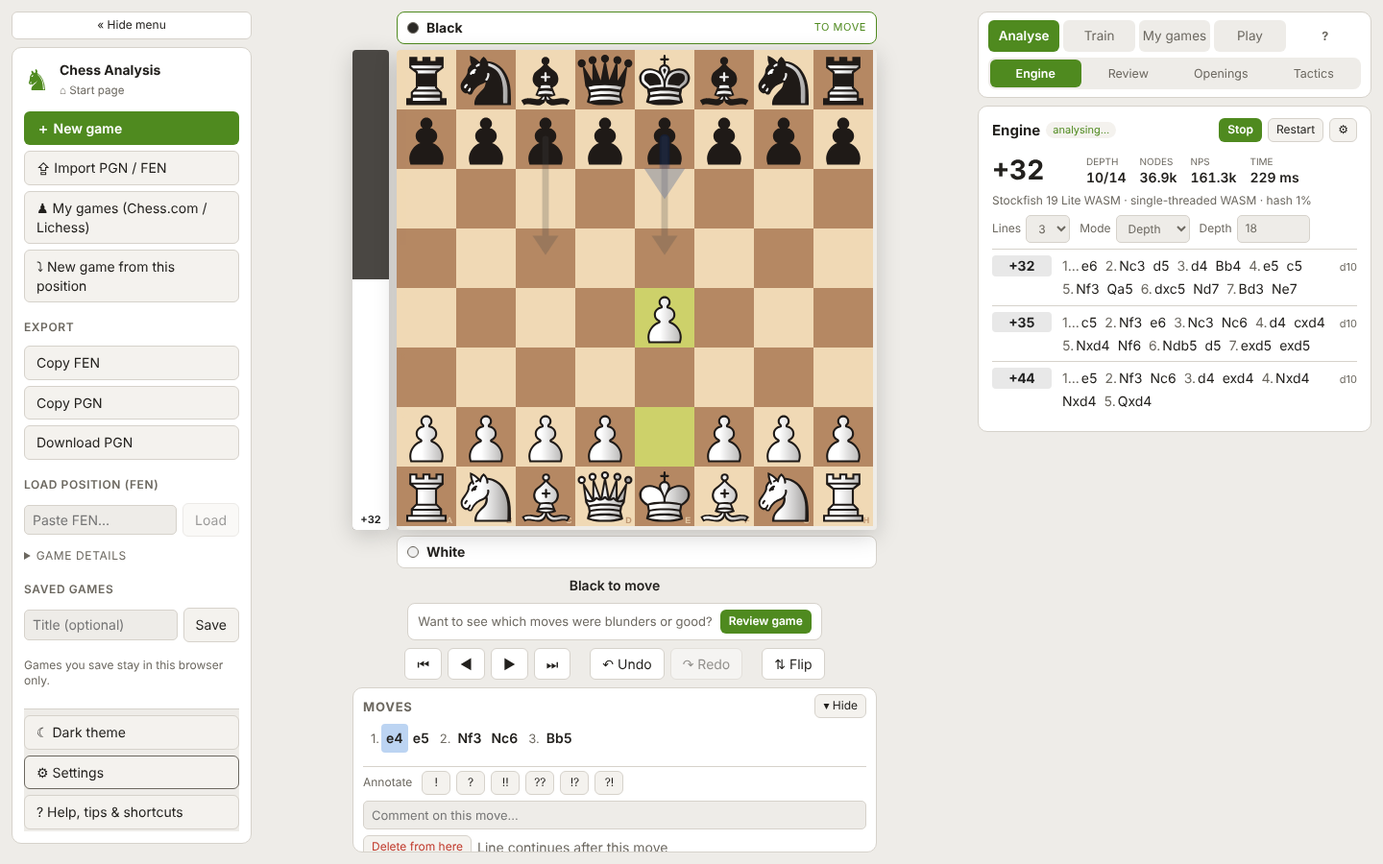
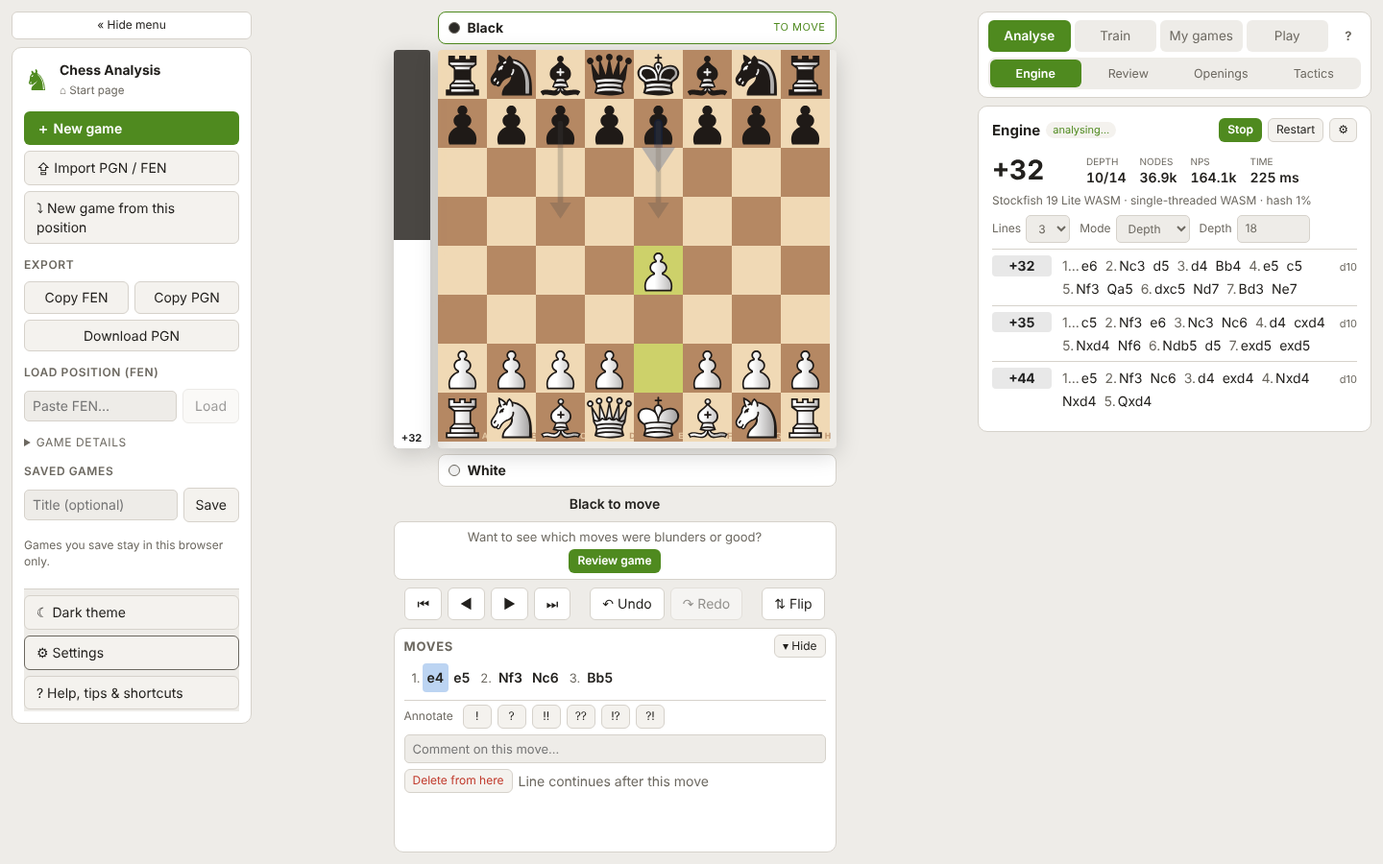
Layout round: centre column fits the window, verdict only on Analyse, compact Play setup, tidier sidebar and review
Claude-Session: https://claude.ai/code/session_01Hgj6vNLbXkGtnkUjtVvSMf

diff --git a/src/styles/app.css b/src/styles/app.css
@@ -90,9 +90,10 @@ textarea { width: 100%; resize: vertical; }
   gap: 14px;
   height: 100%;
   padding: 12px;
-  --board: min(calc(100vh - 400px), 640px, calc(100vw - 250px - 410px - 3 * 14px - 24px - 56px));
+  --board: min(calc(100vh - var(--below)), 640px, calc(100vw - 250px - 410px - 3 * 14px - 24px - 56px));
 }
 .col-left, .col-right { min-height: 0; min-width: 0; }
+.app { --verdict-h: clamp(120px, 21vh, 190px); --below: calc(296px + var(--verdict-h)); }
 .col-left { overflow-y: auto; }
 .col-center { display: flex; flex-direction: column; align-items: center; gap: 8px; min-width: 0; overflow: auto; }
 .col-right {
@@ -322,7 +323,7 @@ kbd { background: var(--bg-3); border: 1px solid var(--line); border-radius: 4px
 
 /* ---------- responsive ---------- */
 @media (max-width: 1180px) {
-  .app { grid-template-columns: 190px minmax(0, 1fr) 340px; --board: min(calc(100vh - 250px), 600px, calc(100vw - 190px - 340px - 3 * 14px - 24px - 56px)); }
+  .app { grid-template-columns: 190px minmax(0, 1fr) 340px; --board: min(calc(100vh - var(--below) + 60px), 600px, calc(100vw - 190px - 340px - 3 * 14px - 24px - 56px)); }
 }
 @media (max-width: 900px) {
   html, body, #root { height: auto; }
@@ -422,12 +423,12 @@ fieldset.plain:disabled { opacity: 0.5; }
 /* ---------- collapsible left column (desktop / tablet) ---------- */
 .side-toggle { width: 100%; background: var(--bg-2); border: 1px solid var(--line); border-radius: 6px; padding: 5px; font-size: 12px; margin-bottom: 8px; }
 @media (min-width: 901px) {
-  .app.side-collapsed { grid-template-columns: 40px minmax(0, 1fr) 410px; --board: min(calc(100vh - 250px), 760px, calc(100vw - 40px - 410px - 3 * 14px - 24px - 56px)); }
+  .app.side-collapsed { grid-template-columns: 40px minmax(0, 1fr) 410px; --board: min(calc(100vh - var(--below) + 60px), 760px, calc(100vw - 40px - 410px - 3 * 14px - 24px - 56px)); }
   .app.side-collapsed .side-body { display: none; }
   .app.side-collapsed .side-toggle { padding: 8px 0; }
 }
 @media (min-width: 901px) and (max-width: 1180px) {
-  .app.side-collapsed { grid-template-columns: 40px minmax(0, 1fr) 340px; --board: min(calc(100vh - 250px), 700px, calc(100vw - 40px - 340px - 3 * 14px - 24px - 56px)); }
+  .app.side-collapsed { grid-template-columns: 40px minmax(0, 1fr) 340px; --board: min(calc(100vh - var(--below) + 60px), 700px, calc(100vw - 40px - 340px - 3 * 14px - 24px - 56px)); }
 }
 @media (max-width: 900px) { .side-toggle { display: none; } }
 
@@ -482,14 +483,14 @@ fieldset.plain:disabled { opacity: 0.5; }
 /* ---------- round 4: moves under the board, sections, welcome, help ---------- */
 .sr-only { position: absolute; width: 1px; height: 1px; overflow: hidden; clip: rect(0 0 0 0); white-space: nowrap; margin: -1px; padding: 0; border: 0; }
 @media (min-width: 901px) {
-  .app { --board: min(calc(100vh - 400px), 640px, calc(100vw - 250px - 410px - 3 * 14px - 24px - 56px)); }
+  .app { --board: min(calc(100vh - var(--below)), 640px, calc(100vw - 250px - 410px - 3 * 14px - 24px - 56px)); }
   .col-center { justify-content: flex-start; }
-  .col-center .moves-panel { width: calc(var(--board) + 46px); flex: 1 1 auto; min-height: 120px; max-height: 260px; margin-left: 0; align-self: center; padding: 6px 10px 8px; }
-  .app.side-collapsed { --board: min(calc(100vh - 400px), 760px, calc(100vw - 40px - 410px - 3 * 14px - 24px - 56px)); }
+  .col-center .moves-panel { width: calc(var(--board) + 46px); flex: 1 1 0; min-height: 96px; max-height: 320px; margin-left: 0; align-self: center; padding: 6px 10px 8px; }
+  .app.side-collapsed { --board: min(calc(100vh - var(--below)), 760px, calc(100vw - 40px - 410px - 3 * 14px - 24px - 56px)); }
 }
 @media (min-width: 901px) and (max-width: 1180px) {
-  .app { --board: min(calc(100vh - 400px), 600px, calc(100vw - 190px - 340px - 3 * 14px - 24px - 56px)); }
-  .app.side-collapsed { --board: min(calc(100vh - 400px), 700px, calc(100vw - 40px - 340px - 3 * 14px - 24px - 56px)); }
+  .app { --board: min(calc(100vh - var(--below)), 600px, calc(100vw - 190px - 340px - 3 * 14px - 24px - 56px)); }
+  .app.side-collapsed { --board: min(calc(100vh - var(--below)), 700px, calc(100vw - 40px - 340px - 3 * 14px - 24px - 56px)); }
 }
 .col-center .moves-panel .move-list { flex: 1 1 auto; min-height: 44px; overflow-y: auto; }
 .col-center .moves-panel .move-tools { margin-top: 4px; }
@@ -511,7 +512,7 @@ fieldset.plain:disabled { opacity: 0.5; }
 .howto dd { margin: 2px 0 0; color: var(--muted); }
 .steps { padding-left: 18px; }
 @media (max-width: 900px) { .col-center .moves-panel { max-height: 40vh; } .help-btn { display: none; } }
-.errors-only { display: flex; gap: 6px; align-items: center; justify-content: flex-end; margin: 0 0 4px; color: var(--muted); }
+.errors-only { display: flex; gap: 6px; align-items: center; justify-content: flex-end; margin: 0 0 2px; color: var(--muted); position: sticky; top: 0; z-index: 1; background: var(--bg-2); padding: 1px 0; }
 .pill.forced { color: var(--info, #6aa7ff); border-color: currentColor; }
 .review-headline { margin: 6px 0; font-weight: 600; }
 @media (min-width: 901px) {
@@ -520,12 +521,12 @@ fieldset.plain:disabled { opacity: 0.5; }
 .moves-head { display: flex; align-items: center; justify-content: space-between; margin-bottom: 2px; }
 .moves-head h2 { margin: 0; font-size: 13px; text-transform: uppercase; letter-spacing: .06em; color: var(--muted); }
 @media (min-width: 901px) {
-  .app.moves-collapsed { --board: min(calc(100vh - 250px), 700px, calc(100vw - 250px - 410px - 3 * 14px - 24px - 56px)); }
-  .app.moves-collapsed.side-collapsed { --board: min(calc(100vh - 250px), 800px, calc(100vw - 40px - 410px - 3 * 14px - 24px - 56px)); }
+  .app.moves-collapsed { --board: min(calc(100vh - var(--below) + 60px), 700px, calc(100vw - 250px - 410px - 3 * 14px - 24px - 56px)); }
+  .app.moves-collapsed.side-collapsed { --board: min(calc(100vh - var(--below) + 60px), 800px, calc(100vw - 40px - 410px - 3 * 14px - 24px - 56px)); }
   .app.moves-collapsed .col-center .moves-panel { flex: 0 0 auto; min-height: 0; max-height: none; }
 }
 @media (min-width: 901px) and (max-width: 1180px) {
-  .app.moves-collapsed { --board: min(calc(100vh - 250px), 640px, calc(100vw - 190px - 340px - 3 * 14px - 24px - 56px)); }
+  .app.moves-collapsed { --board: min(calc(100vh - var(--below) + 60px), 640px, calc(100vw - 190px - 340px - 3 * 14px - 24px - 56px)); }
 }
 @media (max-width: 900px) {
   .col-right .tabs { display: flex; }
@@ -558,3 +559,52 @@ fieldset.plain:disabled { opacity: 0.5; }
 .brand-btn:hover strong { color: var(--accent); }
 @media (max-width: 760px) { .home-cards { grid-template-columns: 1fr; } .home-card { min-height: 0; } .home { place-items: start center; padding-top: 24px; } .home-brand h1 { font-size: 28px; } }
 @media (prefers-reduced-motion: reduce) { .home-card { transition: none; } }
+
+/* ---------- round 5: the centre column always fits the window ---------- */
+@media (min-width: 901px) {
+  .col-center { min-height: 0; overflow: hidden; }
+  .col-center > * { flex-shrink: 0; }
+  .col-center > .moves-panel { flex-shrink: 1; }
+  .col-center .verdict { width: calc(var(--board) + 46px); max-height: var(--verdict-h); display: flex; flex-direction: column; gap: 4px; overflow: hidden; }
+  .col-center .verdict .why-list { flex: 1 1 auto; min-height: 36px; overflow-y: auto; }
+  .col-center .verdict .verdict-main, .col-center .verdict .verdict-better, .col-center .verdict .verdict-nav { flex: none; }
+  /* the move verdict belongs to the analysis tabs */
+  .app:not([data-section='analyse']) .col-center .verdict { display: none; }
+  /* errors-only toggle sits in the Moves header, not on top of it */
+  .moves-head { gap: 10px; }
+}
+/* the eval bar and engine pictures only mean something while analysing */
+.app[data-section='games'] .eval-bar, .app[data-section='train'] .eval-bar { visibility: hidden; }
+@media (max-width: 900px) { .app:not([data-section='analyse']):not(.mobile-board) .verdict { display: none; } }
+
+.export-grid { display: grid; grid-template-columns: 1fr 1fr; gap: 6px; }
+.export-grid .btn { text-align: center; padding: 6px 8px; }
+.export-grid .wide { grid-column: 1 / -1; }
+.sidebar h3 { margin: 10px 0 4px; }
+
+/* play setup: compact difficulty grid + always-visible Start button */
+.level-list.compact { display: grid; grid-template-columns: 1fr 1fr; gap: 6px; }
+.level-list.compact .level { padding: 7px 10px; min-width: 0; }
+.level-list.compact .level > span { display: none; }
+.sticky-start { position: sticky; bottom: -1px; z-index: 2; background: var(--bg-2); padding: 8px 0 6px; margin-top: 8px; border-top: 1px solid var(--line); }
+.sticky-start .btn { width: 100%; text-align: center; padding: 9px 12px; }
+
+/* help button: a small round icon, clearly not a tab; short section labels when the right column is narrow */
+.help-btn { flex: 0 0 26px; width: 26px; height: 26px; margin-left: 4px; background: transparent; border: 1.5px solid var(--muted); color: var(--muted); font-size: 13px; line-height: 1; padding: 0; }
+.help-btn:hover { border-color: var(--accent); color: var(--accent); }
+.lbl-short { display: none; }
+@media (min-width: 901px) and (max-width: 1180px) { .lbl-full { display: none; } .lbl-short { display: inline; } }
+
+/* review: foldable sections */
+details.fold { margin: 10px 0 0; padding-top: 8px; border-top: 1px solid var(--line); }
+details.fold > summary { font-size: 12px; text-transform: uppercase; letter-spacing: .05em; font-weight: 600; margin-bottom: 6px; }
+details.fold:not([open]) > summary { margin-bottom: 0; }
+.review-panel .grade-legend { margin: 8px 0 0; }
+
+/* the move list and the annotation tools scroll together, so the list gets all the room */
+.moves-scroll { flex: 1 1 auto; min-height: 0; overflow-y: auto; display: flex; flex-direction: column; }
+.moves-scroll .move-list, .col-center .moves-panel .moves-scroll .move-list { flex: none; overflow: visible; min-height: 0; }
+.moves-scroll .move-tools { margin-top: 6px; }
+.col-right > .tabs .tab-row.primary button.help-btn { flex: 0 0 26px; width: 26px; padding: 0; background: transparent; color: var(--muted); font-size: 13px; }
+.col-right > .tabs .tab-row.primary button.help-btn:hover { color: var(--accent); background: transparent; }
+@media (max-width: 900px) { .moves-scroll { max-height: 40vh; } }

diff --git a/src/components/ReviewPanel.tsx b/src/components/ReviewPanel.tsx
@@ -166,16 +166,13 @@ export function ReviewPanel() {
           <div className="accuracy-row">
             {(['w', 'b'] as const).map((c) => (
               <div key={c} className="accuracy">
-                <span className="label">{c === 'w' ? tree.headers['White'] ?? 'White' : tree.headers['Black'] ?? 'Black'}</span>
+                <span className="label">{c === 'w' ? tree.headers['White'] ?? 'White' : tree.headers['Black'] ?? 'Black'} · accuracy (estimate)</span>
                 <strong data-testid={`accuracy-${c}`}>{formatPercent(summary.accuracy[c])}</strong>
               </div>
             ))}
           </div>
           <p className="review-headline" data-testid="review-headline">{headline(summary, tree.headers['White'] ?? 'White', tree.headers['Black'] ?? 'Black')}</p>
           <CountForStrength result={result} stale={stale} />
-          <p className="muted small-print">
-            Accuracy is an estimate: the mean per-move score from the loss of winning chances (model adapted from Lichess's published formula). It is not Chess.com's or Lichess's number. Depth {result.depth}; moves classified from winning-chance loss, thresholds in settings.
-          </p>
           <EvalGraph values={result.whiteWinGraph} ids={line} currentPly={currentPly} />
           <table className="counts">
             <thead><tr><th></th><th>White</th><th>Black</th></tr></thead>
@@ -194,21 +191,29 @@ export function ReviewPanel() {
           </table>
 
           <details className="grade-legend">
-            <summary>How the grades are decided</summary>
+            <summary>How accuracy and the grades are decided</summary>
+            <p className="muted small-print">
+              Accuracy is an estimate: the mean per-move score from the loss of winning chances (model adapted from Lichess's published formula). It is not Chess.com's or Lichess's number. Depth {result.depth}; moves classified from winning-chance loss, thresholds in settings.
+            </p>
             <p className="muted small-print">These labels follow the familiar Chess.com scheme, but the rules are our own approximation: Chess.com's exact algorithm is not public. Everything comes from Stockfish's evaluations at the review depth.</p>
             <ul className="learn-ideas">
               {GRADE_ORDER.map((g) => <li key={g}><span className={`pill cls-${g}`}>{GRADE_LABEL[g]}</span> {GRADE_HELP[g]}</li>)}
             </ul>
           </details>
-          <h3>Critical moments</h3>
+          <details className="fold" open>
+          <summary>Critical moments</summary>
           {summary.criticalMoments.length === 0 ? <p className="muted pad">None found – a clean game.</p> : (
             <ul className="moments">{summary.criticalMoments.map((m) => <MomentRow key={m.nodeId} m={m} />)}</ul>
           )}
-          <h3>Biggest swings</h3>
+          </details>
+          <details className="fold">
+          <summary>Biggest swings</summary>
           <ul className="moments">
             {summary.biggestSwings.filter((m) => Math.abs(m.swing) >= 1).map((m) => <MomentRow key={m.nodeId} m={m} label={`White's win chance ${m.swing > 0 ? '+' : ''}${m.swing.toFixed(0)}%`} />)}
           </ul>
-          <h3>Study positions</h3>
+          </details>
+          <details className="fold">
+          <summary>Study positions</summary>
           <p className="muted small-print">Positions from your own mistakes: the position <em>before</em> the move, where the engine knows a better one.</p>
           {summary.studyPositions.length === 0 ? <p className="muted pad">No mistakes to study.</p> : (
             <ul className="moments">
@@ -225,6 +230,7 @@ export function ReviewPanel() {
               })}
             </ul>
           )}
+          </details>
           <button className="btn small" disabled={puzzleOpen || playOpen} onClick={continueFromHere} title="Start a new analysis game from the selected position">
             Start new game from selected position
           </button>

diff --git a/src/App.tsx b/src/App.tsx
@@ -33,7 +33,7 @@ import { useView } from '@/stores/viewStore';
  * The right-hand side has four sections; sections with more than one panel show a second row of sub-tabs.
  * (Fewer tabs at once: what you want to do first, then which tool.)
  */
-const SECTIONS: { id: string; label: string; hint: string; tabs: { id: RightTab; label: string }[] }[] = [
+const SECTIONS: { id: string; label: string; short?: string; hint: string; tabs: { id: RightTab; label: string }[] }[] = [
   {
     id: 'analyse', label: 'Analyse', hint: 'Look at a game or position',
     tabs: [
@@ -51,7 +51,7 @@ const SECTIONS: { id: string; label: string; hint: string; tabs: { id: RightTab;
     ],
   },
   {
-    id: 'games', label: 'My games', hint: 'Your Chess.com / Lichess games and strength',
+    id: 'games', label: 'My games', short: 'Games', hint: 'Your Chess.com / Lichess games and strength',
     tabs: [
       { id: 'player', label: 'Player' },
       { id: 'strength', label: 'Strength' },
@@ -107,7 +107,7 @@ export default function App() {
   }
 
   return (
-    <div className={`app mobile-${mobileTab} ${puzzleActive ? 'has-puzzle' : ''} ${collapsed ? 'side-collapsed' : ''} ${movesCollapsed ? 'moves-collapsed' : ''}`}>
+    <div data-section={section?.id ?? ''} className={`app mobile-${mobileTab} ${puzzleActive ? 'has-puzzle' : ''} ${collapsed ? 'side-collapsed' : ''} ${movesCollapsed ? 'moves-collapsed' : ''}`}>
       <div className="col-left">
         <button className="side-toggle" data-testid="side-toggle" aria-expanded={!collapsed} aria-label={collapsed ? 'Show side menu' : 'Hide side menu'} title={collapsed ? 'Show side menu' : 'Hide side menu'} onClick={toggleSidebar}>
           {collapsed ? '»' : '« Hide menu'}
@@ -132,7 +132,7 @@ export default function App() {
             <h2>Moves</h2>
             <button className="btn small" onClick={toggleMoves} aria-expanded={!movesCollapsed} aria-label={movesCollapsed ? 'Show moves' : 'Hide moves'} title={movesCollapsed ? 'Show moves' : 'Hide moves to get a bigger board'} data-testid="moves-toggle">{movesCollapsed ? '▴ Show' : '▾ Hide'}</button>
           </div>
-          {!movesCollapsed && <><MoveList /><MoveTools /></>}
+          {!movesCollapsed && <div className="moves-scroll"><MoveList /><MoveTools /></div>}
         </section>
       </main>
 
@@ -142,9 +142,10 @@ export default function App() {
             {SECTIONS.map((sec) => {
               const active = sec.tabs.some((t) => t.id === rightTab);
               return (
-                <button key={sec.id} role="tab" aria-selected={active} className={active ? 'active' : ''} title={sec.hint}
+                <button key={sec.id} role="tab" aria-selected={active} aria-label={sec.label} className={active ? 'active' : ''} title={sec.hint}
                   onClick={() => { const t = sec.tabs.some((x) => x.id === lastInSection.get(sec.id)) ? lastInSection.get(sec.id)! : sec.tabs[0]!.id; setRightTab(t); setMobileTab(t); }}>
-                  {sec.label}
+                  <span className="lbl-full" aria-hidden="true">{sec.label}</span>
+                  {sec.short !== undefined && <span className="lbl-short" aria-hidden="true">{sec.short}</span>}
                 </button>
               );
             })}

diff --git a/src/components/PlayPanel.tsx b/src/components/PlayPanel.tsx
@@ -165,9 +165,9 @@ function Setup() {
       </label>
       {s.timeControl !== 'none' && <p className="muted small-print">Clocks start after both sides have moved once. If your time runs out you lose; if Stockfish's does, you win (a draw if the other side could not mate anyway). Stockfish also shortens its thinking when it is low on time.</p>}
       <h3>Difficulty (approximate)</h3>
-      <div className="level-list" role="radiogroup" aria-label="Difficulty">
+      <div className="level-list compact" role="radiogroup" aria-label="Difficulty">
         {[...LEVELS, { id: 'custom' as LevelId, label: 'Custom', blurb: 'Choose Skill Level or Elo and thinking time.' }].map((l) => (
-          <button key={l.id} role="radio" aria-checked={s.level === l.id} className={`level ${s.level === l.id ? 'active' : ''}`} onClick={() => updatePlaySettings({ level: l.id })} data-testid={`level-${l.id}`}>
+          <button key={l.id} role="radio" aria-checked={s.level === l.id} className={`level ${s.level === l.id ? 'active' : ''}`} onClick={() => updatePlaySettings({ level: l.id })} data-testid={`level-${l.id}`} title={l.blurb}>
             <strong>{l.label}</strong><span className="muted small-print">{l.blurb}</span>
           </button>
         ))}
@@ -190,7 +190,7 @@ function Setup() {
       <label className="field check"><input type="checkbox" checked={s.practice} onChange={(e) => updatePlaySettings({ practice: e.target.checked })} data-testid="opt-practice" /><span>Practice mode (allow taking moves back)</span></label>
       <CoachingSettings />
       <ResumeBanner />
-      <div className="row"><button className="btn primary" onClick={begin} data-testid="play-start">Start game</button></div>
+      <div className="sticky-start"><button className="btn primary" onClick={begin} data-testid="play-start">Start game</button></div>
       <Dashboard />
     </>
   );

diff --git a/src/components/Sidebar.tsx b/src/components/Sidebar.tsx
@@ -16,7 +16,7 @@ import {
 import { deleteSavedGame, saveGameToLibrary, useLibrary } from '@/stores/libraryStore';
 import { updateSettings, useSetting } from '@/stores/settingsStore';
 import { goHome } from '@/stores/viewStore';
-import { confirmThen, openDialog, setMobileTab, setRightTab } from '@/stores/uiStore';
+import { confirmThen, openDialog } from '@/stores/uiStore';
 import { usePuzzle } from '@/stores/puzzleStore';
 import { usePlay } from '@/stores/playStore';
 import { parsePgn } from '@/pgn/pgn';
@@ -80,7 +80,6 @@ export function Sidebar() {
           ＋ New game
         </button>
         <button className="btn" onClick={() => openDialog('import')} data-testid="open-import">⇪ Import PGN / FEN</button>
-        <button className="btn" onClick={() => { setRightTab('player'); setMobileTab('player'); }} data-testid="open-my-games">♟ My games (Chess.com / Lichess)</button>
         {changed && (
           <button className="btn" onClick={() => { restoreOriginal(); notify('info', 'Original game restored.'); }} title="Discard all your variations and edits">
             ↺ Restore imported game
@@ -92,10 +91,10 @@ export function Sidebar() {
       </div>
 
       <h3>Export</h3>
-      <div className="stack">
+      <div className="export-grid">
         <button className="btn" onClick={() => void copy('FEN', currentFen())}>Copy FEN</button>
         <button className="btn" onClick={() => void copy('PGN', currentPgn())}>Copy PGN</button>
-        <button className="btn" onClick={() => downloadText('game.pgn', currentPgn(), 'application/x-chess-pgn')}>Download PGN</button>
+        <button className="btn wide" onClick={() => downloadText('game.pgn', currentPgn(), 'application/x-chess-pgn')}>Download PGN</button>
       </div>
 
       <h3>Load position (FEN)</h3>

diff --git a/src/components/ChessBoard.tsx b/src/components/ChessBoard.tsx
@@ -65,6 +65,8 @@ export function ChessBoard() {
   const requestedFen = useEngine((s) => s.requestedFen);
 
   const tacticSquares = useUi((s) => s.tacticSquares);
+  // Engine arrows belong to the analysis tabs; on Strength / My games / Learn they would only be noise.
+  const analyseTab = useUi((s) => ['engine', 'review', 'openings', 'tactics'].includes(s.rightTab));
   const idRef = useRef(currentId);
   idRef.current = currentId;
   const host = useRef<HTMLDivElement>(null);
@@ -149,7 +151,7 @@ export function ChessBoard() {
 
   // Engine arrows (never drawn for another position than the one displayed).
   const engineArrows = useMemo<DrawShape[]>(() => {
-    if (!settings.showEngineArrows || snapshot === null || requestedFen !== fen || snapshot.fen !== fen || gameOver) return [];
+    if (!analyseTab || !settings.showEngineArrows || snapshot === null || requestedFen !== fen || snapshot.fen !== fen || gameOver) return [];
     const arrows: DrawShape[] = [];
     snapshot.lines.slice(0, 3).forEach((line, i) => {
       const first = line.pv[0] !== undefined ? splitUci(line.pv[0]) : null;
@@ -162,7 +164,7 @@ export function ChessBoard() {
       });
     });
     return arrows;
-  }, [snapshot, requestedFen, fen, settings.showEngineArrows, gameOver]);
+  }, [analyseTab, snapshot, requestedFen, fen, settings.showEngineArrows, gameOver]);
 
   const autoShapes = useMemo<DrawShape[]>(
     () => [...engineArrows, ...tacticSquares.map((sq): DrawShape => ({ orig: sq as Key, brush: 'yellow' }))],

diff --git a/e2e/layout_round5.py b/e2e/layout_round5.py
@@ -1,0 +1,40 @@
+import asyncio, os
+from playwright.async_api import async_playwright
+exec(open(os.path.join(os.path.dirname(__file__),'common.py')).read())
+OPERA='[Event "Opera"]\n[White "Fabian"]\n[Black "Opp"]\n[Result "1-0"]\n\n1. e4 e5 2. Nf3 d6 3. d4 Bg4 4. dxe5 Bxf3 5. Qxf3 dxe5 6. Bc4 Nf6 7. Qb3 Qe7 8. Nc3 c6 9. Bg5 b5 10. Nxb5 cxb5 11. Bxb5+ Nbd7 12. O-O-O Rd8 13. Rxd7 Rxd7 14. Rd1 Qe6 15. Bxd7+ Nxd7 16. Qb8+ Nxb8 17. Rd8# 1-0'
+async def main():
+    ok=True
+    def check(n,c):
+        nonlocal ok; print(('PASS ' if c else 'FAIL ')+n); ok = ok and bool(c)
+    async with async_playwright() as p:
+        b=await p.chromium.launch(**LAUNCH,args=['--no-sandbox'])
+        for w,h in [(1440,900),(1280,720)]:
+            pg=await (await b.new_context(viewport={'width':w,'height':h})).new_page(); errs=[]
+            pg.on('pageerror',lambda e: errs.append(str(e)))
+            await pg.goto(URL); await pg.evaluate("localStorage.clear(); localStorage.setItem('chess-analysis:settings:v1', JSON.stringify({reviewDepth:8}))"); await pg.reload(); await pg.wait_for_selector('cg-board')
+            await pg.click('[data-testid=open-import]'); await pg.fill('textarea.import-text',OPERA); await pg.click('[data-testid=import-submit]')
+            await goto_tab(pg,'Review'); await pg.wait_for_selector('[data-testid=count-white]:not([disabled])',timeout=120000); await pg.wait_for_timeout(600)
+            m=await pg.evaluate("""()=>{const c=document.querySelector('.col-center'); const bd=document.querySelector('.board-wrap').getBoundingClientRect(); const mv=document.querySelector('.moves-panel').getBoundingClientRect(); return {over:c.scrollHeight-c.clientHeight, top:bd.top, bottom:mv.bottom, vh:innerHeight}}""")
+            print(w,h,m)
+            check(f'{w}x{h}: centre column does not overflow (board top and moves panel fully visible)', m['over']<=0 and m['top']>=0 and m['bottom']<=m['vh'])
+            check(f'{w}x{h}: move verdict shown in Analyse', await pg.locator('[data-testid=move-verdict]').is_visible())
+            hw=await pg.evaluate("document.querySelector('[data-testid=open-help]').getBoundingClientRect().width")
+            check(f'{w}x{h}: help button is a small round icon, not a tab', hw<=32)
+            lab=await pg.evaluate("[...document.querySelectorAll('.tab-row.primary button[role=tab]')].map(b=>b.scrollWidth<=b.clientWidth+1)")
+            check(f'{w}x{h}: section tab labels are not truncated', all(lab))
+            # foldable review sections
+            opened=await pg.evaluate("[...document.querySelectorAll('.review-panel details.fold')].map(d=>d.open)")
+            check(f'{w}x{h}: critical moments open, swings/study closed', opened==[True,False,False])
+            await goto_tab(pg,'Play')
+            check(f'{w}x{h}: stale verdict is hidden on the Play tab', not await pg.locator('[data-testid=move-verdict]').is_visible())
+            box=await pg.locator('[data-testid=play-start]').bounding_box()
+            check(f'{w}x{h}: Start game is visible without scrolling', box is not None and box['y']+box['height']<=h)
+            await goto_tab(pg,'Strength')
+            check(f'{w}x{h}: no stale verdict on Strength either', not await pg.locator('[data-testid=move-verdict]').is_visible())
+            check(f'{w}x{h}: no page errors', not errs)
+            if w==1440:
+                n=await pg.get_by_text('My games (Chess.com').count()
+                check('sidebar no longer duplicates the My games button', n==0)
+        await b.close()
+    raise SystemExit(0 if ok else 1)
+asyncio.run(main())

diff --git a/README.md b/README.md
@@ -87,7 +87,15 @@ Opening the site with nothing to continue shows a calm start page (Analyse a gam
 - After a review the board jumps to your first error; the review starts with a one-line summary per side; best moves with big swings are marked "Forced sequence".
 - "Show errors only" in the move list; the game result is shown at the end of the game.
 - Import accepts PGN tags written on one line and refuses to "load" a game with no readable moves.
-- Sidebar: "My games" shortcut; settings buttons stay visible on short screens. Fixed SVG NaN console errors on mobile.
+- Sidebar: settings buttons stay visible on short screens. Fixed SVG NaN console errors on mobile.
+
+## Layout round (fifth)
+
+- The centre column always fits the window (checked at 1440x900 and 1280x720): the board size reserves room for the move verdict and the move list; reasons scroll inside the verdict card; the move list and annotation tools scroll together.
+- The move verdict only shows on the Analyse tabs; engine arrows and the eval bar are hidden on Train / My games.
+- Play setup: difficulty as a compact grid (details shown for the selected level) and a Start button that stays visible.
+- Sidebar: duplicate "My games" button removed, Export as a 2-column grid. "?" is a small round icon; "My games" shortens to "Games" in narrow layouts.
+- Game review: critical moments open, biggest swings / study positions / accuracy explanation folded.
 
 ## More features (added in the third round)
 
